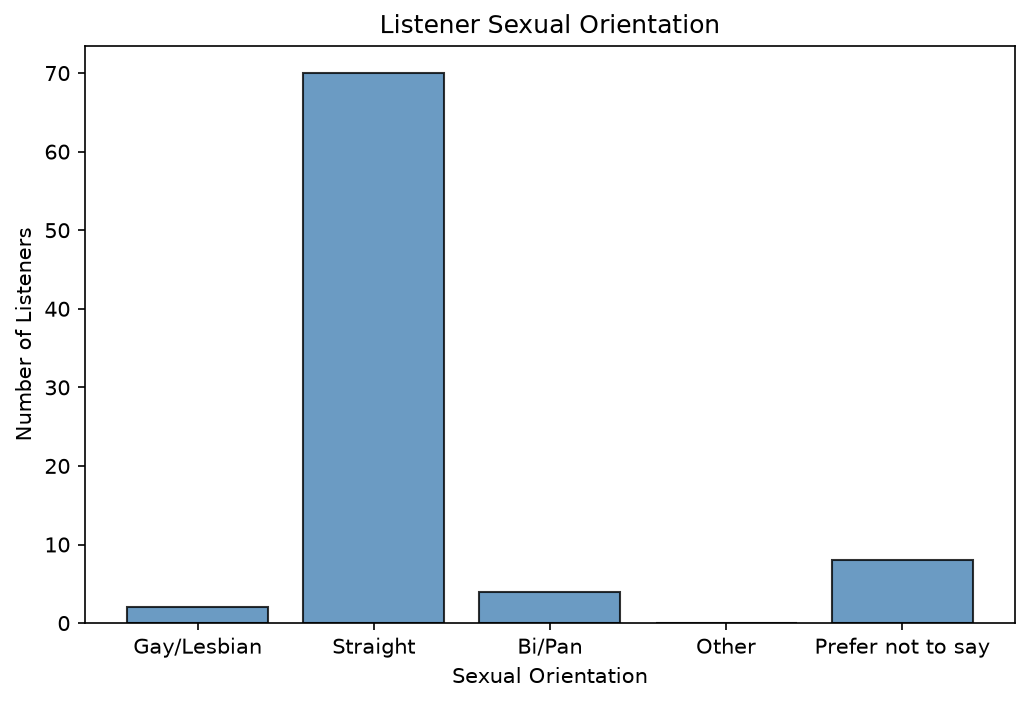
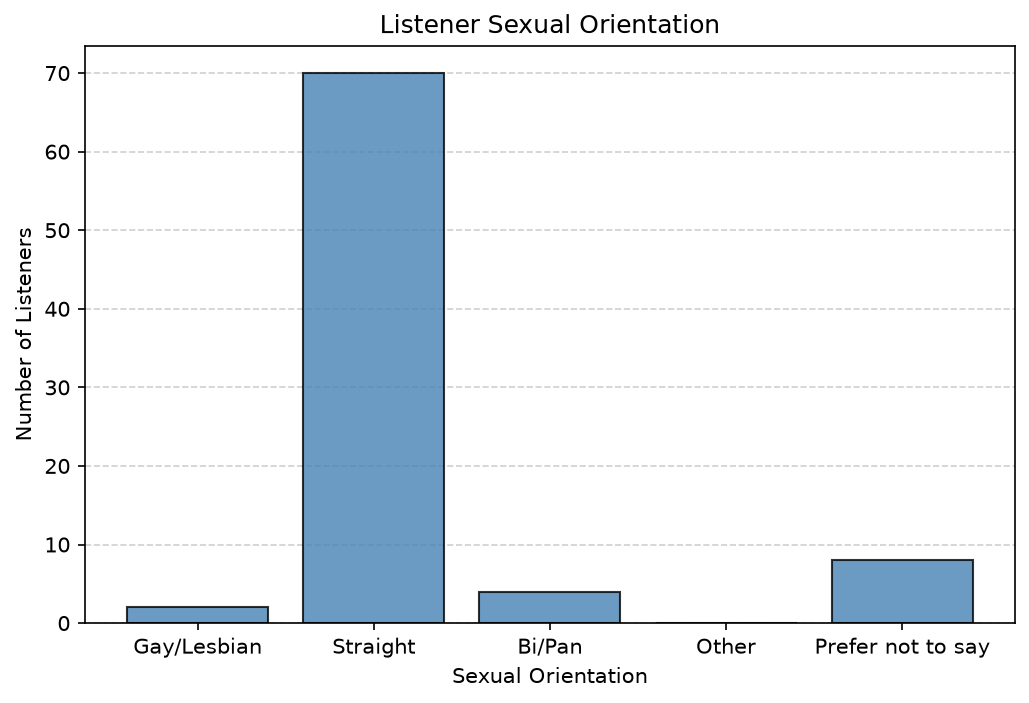
regenerate plots with dashed lines for clarity

diff --git a/F24/demographic_histograms.py b/F24/demographic_histograms.py
@@ -16,6 +16,8 @@ respondents = df.iloc[2:87]
 actual_scores = pd.to_numeric(df.iloc[88, 1:37], errors="coerce").dropna()
 
 fig, ax = plt.subplots(figsize=(8, 5))
+ax.set_axisbelow(True)
+ax.grid(axis="y", linestyle="--", alpha=0.6)
 ax.hist(actual_scores, bins=[x - 0.5 for x in range(12)],
         edgecolor="black", color="steelblue", alpha=0.8)
 ax.set_title("Distribution of Speakers' Actual Sexuality Scores")
@@ -49,6 +51,8 @@ for demo in demographics:
     values = pd.to_numeric(respondents.iloc[:, demo["col"]], errors="coerce").dropna()
 
     fig, ax = plt.subplots(figsize=(8, 5))
+    ax.set_axisbelow(True)
+    ax.grid(axis="y", linestyle="--", alpha=0.6)
 
     if demo["labels"]:
         order = sorted(demo["labels"])
